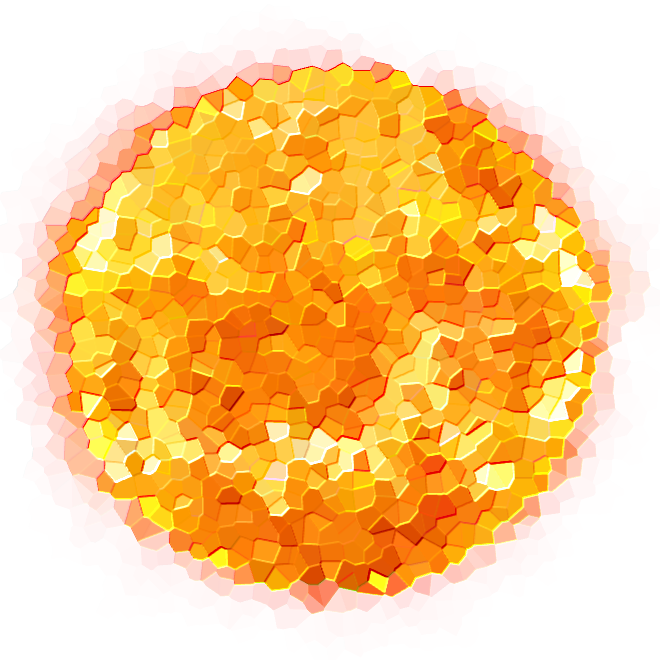
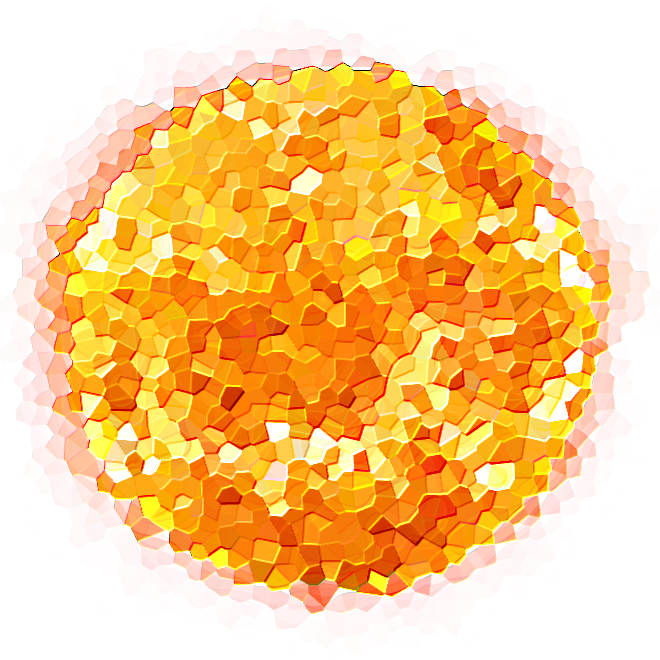
Add heat and age indicators. Update heat to trigger gameover function. Update sun anglular spin velocity to be dynamic based on heat. Updated heat to be increase dynamically based on uncompleted tasks.

diff --git a/various_vipers/project/gameplay/sun.py b/various_vipers/project/gameplay/sun.py
@@ -3,7 +3,7 @@ from typing import List
 
 import pygame as pg
 
-from project.constants import SUN_IMAGE, HEIGHT
+from project.constants import HEIGHT, MAX_HEAT, SUN_IMAGE, WIDTH
 from .biome import Biome
 
 
@@ -16,6 +16,8 @@ class Sun:
     background_image: pg.Surface = SUN_IMAGE
     current_heat: float = 0
     angle: float = 0
+    min_angle_vel: float = 0.5
+    max_angle_vel: float = 4
 
     def __init__(self, screen: pg.Surface, biomes: List[Biome], heat_per_task: float):
         self.screen = screen
@@ -24,15 +26,15 @@ class Sun:
         self.heat_per_sec = heat_per_task
 
         self.image = pg.image.load(str(self.background_image)).convert_alpha()
-        new_height = int(HEIGHT // 2.5)
+        new_height = int(HEIGHT // 2)
         scale_percent = new_height / self.image.get_height()
         new_width = int(self.image.get_width() * scale_percent)
         self.image = pg.transform.scale(self.image, (new_width, new_height))
 
     def update(self) -> None:
         """Update is called every game tick."""
-        self.angle += 1
-        self.angle %= 360
+        self.update_angle()
+
         # Increase heat based on uncompleted task count
         task_count = 0
         # Get uncompleted task count. weeeee
@@ -41,11 +43,30 @@ class Sun:
                 for tile in row:
                     if tile.task:
                         task_count += 1
-        self.current_heat -= self.heat_per_sec * task_count
+        self.current_heat += self.heat_per_sec * task_count
+
+    def update_angle(self) -> None:
+        """Update suns angle relative to itself. Called every game tick."""
+        # Calculate angular velocity based on current heat
+        heat_range = self.current_heat / MAX_HEAT
+        velocity_range = self.max_angle_vel - self.min_angle_vel
+        angle_velocity = heat_range * velocity_range + self.min_angle_vel
+        # You spin me right round
+        self.angle += angle_velocity
+        if self.angle >= 360:
+            self.angle = self.angle - 360
 
     def draw(self) -> None:
         """Draw is called every game tick."""
         self.screen.blit(
             pg.transform.rotate(self.image, self.angle),
             self.image.get_rect(center=(0, 0)),
+        )
+
+        # Draw current heat number
+        font = pg.font.Font(None, 50)
+        text = f"{str(int(self.current_heat))} / {str(MAX_HEAT)}"
+        heat_indicator = font.render(text, True, pg.Color("black"))
+        self.screen.blit(
+            heat_indicator, (int(WIDTH // 2) - int(heat_indicator.get_width() // 2), 40)
         )

diff --git a/various_vipers/project/gameplay/period.py b/various_vipers/project/gameplay/period.py
@@ -1,10 +1,12 @@
+import datetime
 import logging
 import random
+import time
 from typing import List, Optional
 
 import pygame as pg
 
-from project.constants import TILE_COLS, TILE_ROWS
+from project.constants import TILE_COLS, TILE_ROWS, WIDTH
 from .biome import Biome, BiomeCity, BiomeDesert, BiomeForest, BiomeMountains
 from .earth import Earth
 from .sun import Sun
@@ -42,6 +44,11 @@ class Period(object):
     rps_chance: float = 1.0
     ttt_chance: float = 1.0
 
+    # Earth's age
+    start_date: datetime = datetime.date(2000, 1, 1)
+    # Time when game started
+    start_time: time = None
+
     def __init__(self, screen: pg.Surface):
         self.screen = screen
 
@@ -71,8 +78,24 @@ class Period(object):
 
     def draw(self) -> None:
         """Draw gets called every game tick."""
-        self.earth.draw()
-        self.sun.draw()
+        self.earth.draw(self.sun)
+        self.draw_age()
+
+    def draw_age(self) -> None:
+        """Draw how long the earth lived."""
+        if self.start_time is None:
+            self.start_time = time.time()
+        else:
+            elapsed_sec = time.time() - self.start_time
+            age = self.start_date + datetime.timedelta(days=30 * elapsed_sec)
+            font = pg.font.Font(None, 50)
+            age_indicator = font.render(
+                age.strftime("%Y - %B"), True, pg.Color("black")
+            )
+            self.screen.blit(
+                age_indicator,
+                (int(WIDTH // 2) - int(age_indicator.get_width() // 2), 0),
+            )
 
     def __handle_task_spawn(self) -> None:
         if (
@@ -114,16 +137,16 @@ class Period(object):
 class PeriodMedieval(Period):
     """Medieval themed Time Period."""
 
-    pass
+    start_date: datetime = datetime.date(1000, 1, 1)
 
 
 class PeriodModern(Period):
     """Modern time themed Time Period."""
 
-    pass
+    start_date: datetime = datetime.date(2000, 1, 1)
 
 
 class PeriodFuture(Period):
     """Future time themed Time Period."""
 
-    pass
+    start_date: datetime = datetime.date(3000, 1, 1)

diff --git a/various_vipers/project/gameplay/earth.py b/various_vipers/project/gameplay/earth.py
@@ -20,6 +20,7 @@ from project.constants import (
 )
 from .biome import Biome
 from .indicator import Indicator
+from .sun import Sun
 from .tile import Tile
 
 
@@ -88,10 +89,11 @@ class Earth(object):
         self.__update_tiles()
         self.__update_indicators()
 
-    def draw(self) -> None:
+    def draw(self, sun: Sun) -> None:
         """Draw all images related to the earth."""
         self.__draw_clouds()
         self.__draw_biomes()
+        sun.draw()  # Need to draw sun before indicators
         self.__draw_indicators()
 
     def fix_indicators(self) -> None:

diff --git a/various_vipers/project/gameplay/indicator.py b/various_vipers/project/gameplay/indicator.py
@@ -57,7 +57,7 @@ class Indicator:
     def __update_pos(self) -> None:
         """Update/Set x and y positions of indicator."""
         self.position_x = 0 if self.is_left else WIDTH - self.image.get_width()
-        self.position_y = random.randint(0, int(HEIGHT * 0.5))
+        self.position_y = random.randint(int(HEIGHT * 0.2), int(HEIGHT * 0.65))
 
     def __pulse(self) -> None:
         """Pulsing effect - moves indicator x position in and out."""

diff --git a/various_vipers/project/gameplay/game_view.py b/various_vipers/project/gameplay/game_view.py
@@ -16,7 +16,7 @@ class GameView:
     # Background images that will be looping
     BG_images: List[str] = []
 
-    def __init__(self, screen: pg.Surface, difficulty: int = 0):
+    def __init__(self, screen: pg.Surface, difficulty: int = 1):
         """
         Initializer for GameView class.
 
